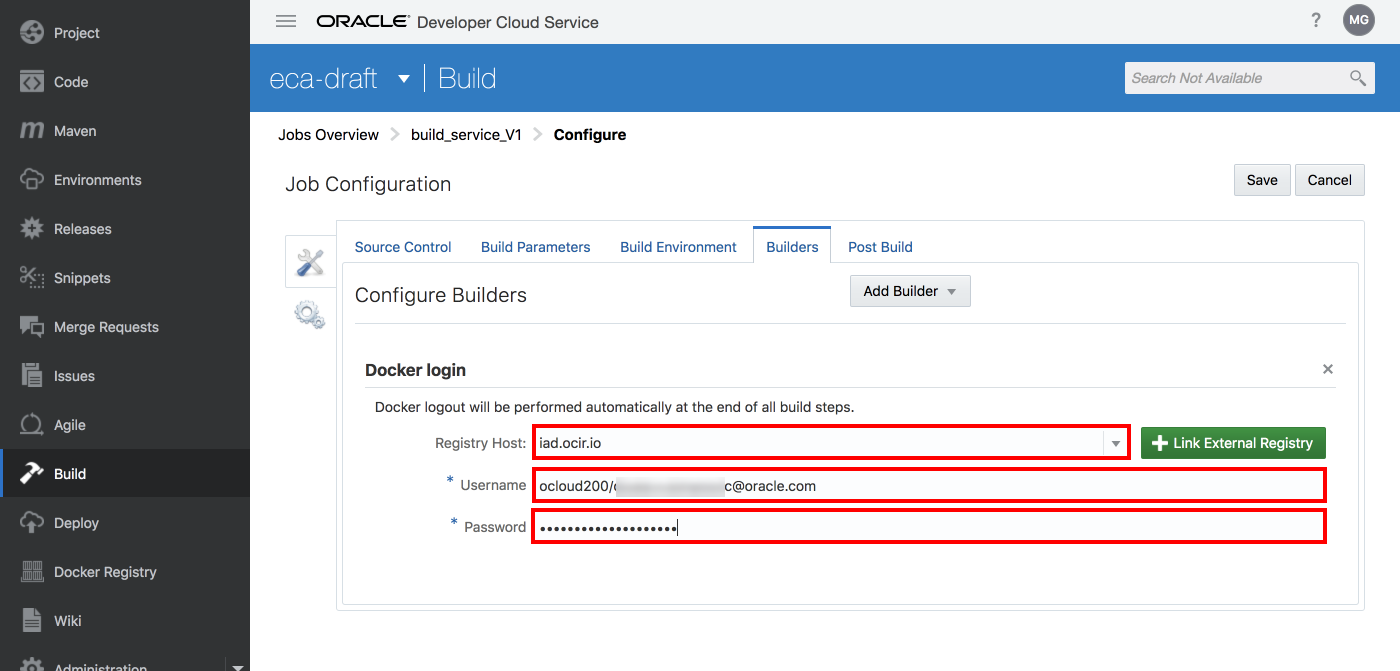
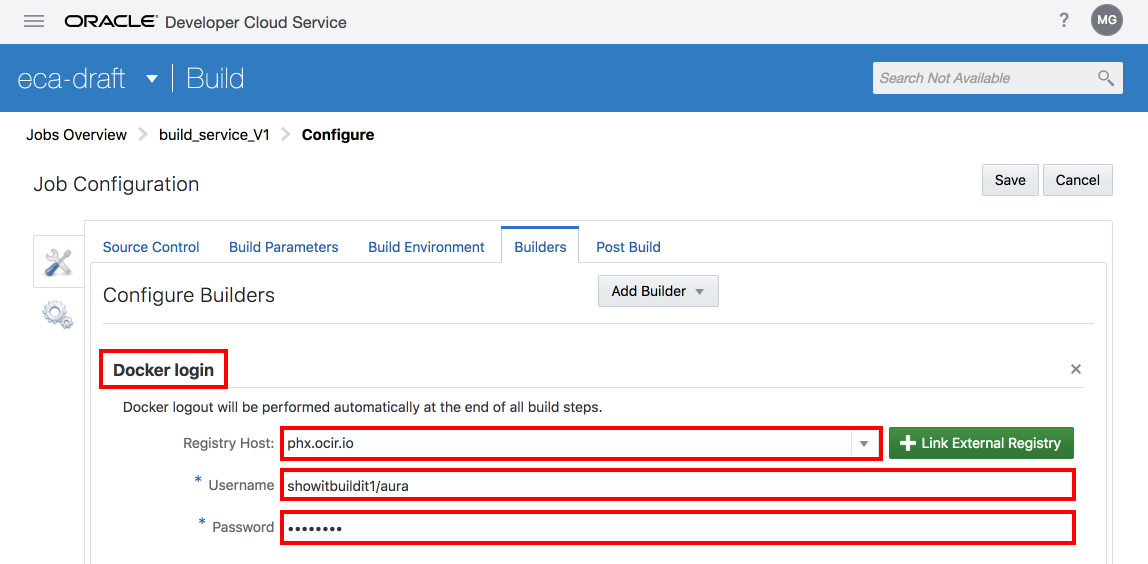
rest of the screenshots

diff --git a/tutorials/devcs.build.jobs.md b/tutorials/devcs.build.jobs.md
@@ -78,8 +78,8 @@ Click again the Add Builder and select Docker build.
 ![](images/build.jobs/06.build.v1.docker.build.png)
 
 Fill out the following:
--	Registry Host: <region-code\>.ocir.io
--	Image name: <oci-tenant\>/<repository-name\> (what you created above)
+-	Registry Host: phx.ocir.io
+-	Image name: showitbuildit1/<repository-name\> (what you created above using the format eca-<compartment-name\>)
 -	Version Tag: 1.0
 - Context Root in Workspace: yes
 - Dockerfile: Dockerfile_V1
@@ -91,8 +91,8 @@ Click again the Add Builder and select Docker push.
 ![](images/build.jobs/08.build.v1.docker.push.png)
 
 Fill out the following:
--	Registry Host: <region-code\>.ocir.io
--	Image name: <oci-tenant\>/<repository-name\> (what you created above)
+-	Registry Host: phx.ocir.io
+-	Image name: showitbuildit1/<repository-name\> (what you created above using the format eca-<compartment-name\>)
 -	Version Tag: 1.0
 
 ![](images/build.jobs/09.build.v1.docker.push.details.png)
@@ -105,7 +105,9 @@ Click on Build now.
 
 ![](images/build.jobs/11.build.v1.start.png)
 
-You don't need to wait for the result if there is no available Executor. You can continue with the following step and get back to verify when the job is completed.
+You don't need to wait for the result if there is no available Executor. You can continue with the following step and get back to verify in Registry when the job is completed.
+
+![](images/build.jobs/11.build.v1.verify.png)
 
 ### 3. Deploy service V1 to Microservices platform and test
 
@@ -210,9 +212,21 @@ Add another Unix Shell Builder which will execute the service V1 deployment. Cop
 
     kubectl apply -f kubernetes/ecadraft-virtual-service-v1.yaml
 
+Yous should have similar builders configuration for deploy_service_V1 job:
+
+![](images/build.jobs/20.deploy.v1.builders.details.png)
+
 Click Save and execute the deploy_service_V1 build job.
 
-The step above will also print the GATEWAY_URL (API endpoint) for you. Once the job completed check the log. Click on the log icon and find the GATEWAY_URL value. It has to be a public IP address and port. When you have that execute the following `curl` command to test the application:
+The step above will also print the GATEWAY_URL (API endpoint) for you. Once the job completed check the log. Click on the log icon to get the build log.
+
+![](images/build.jobs/21.deploy.v1.view.logs.png)
+
+In the log find the GATEWAY_URL variable's value:
+
+![](images/build.jobs/22.deploy.v1.gatewayurl.png)
+
+It has to be a public IP address and port. When you have this execute the following `curl` command to test the application:
 
     $ curl -HHost:ecadraft.example.com http://<GATEWAY_URL>/tickets
     {"_items":[{"customer":"Krajcik Inc","status":"Resolved","product":"Licensed Wooden Salad","_id":"25ccbcc4-a989-4334-a341-fcc18e4efced"...
@@ -220,6 +234,8 @@ The step above will also print the GATEWAY_URL (API endpoint) for you. Once the 
 ### 4. Create build job to package service V2 in container and push to container registry
 
 Create new build job.
+
+![](images/build.jobs/01.build.jobs.png)
 
 Fill out the following:
 -	Job Name: build_service_V2
@@ -229,20 +245,27 @@ Fill out the following:
 
 Click Create.
 
+![](images/build.jobs/29.build.v2.create.png)
+
 Click on the new build_service_V2 job to configure. Switch to the Builders tab and modify the followings:
 
 - Version Tag (every location): 1.0 -> 2.0
 - Dockerfile: Dockerfile_V1 -> Dockerfile_V2
 
+
+![](images/build.jobs/30.build.v2.builders.changes.png)
+
 Click Save than Build Now.
 
-![](images/build.jobs/30.deploy.v2.builders.changes.png)
-
 When the job finished verify the V2 image in your repository.
+
+![](images/build.jobs/31.build.v2.verify.png)
 
 ### 5. Deploy service V2 to Microservices platform
 
 Create new build job.
+
+![](images/build.jobs/01.build.jobs.png)
 
 Fill out the following:
 -	Job Name: deploy_service_V2
@@ -252,24 +275,32 @@ Fill out the following:
 
 Click Create.
 
-Click on the new deploy_service_V2 job to configure. Switch to the Builders tab and modify the followings in the last Unix Shell Builder Step:
+![](images/build.jobs/32.deploy.v2.create.png)
+
+Switch to the Builders tab and modify the followings in the last Unix Shell Builder Step:
 
 - ecadraft1.yaml -> ecadraft2.yaml
 - ecadraft1.final.yaml -> ecadraft2.final.yaml
-- Delete: kubectl apply -f kubernetes/ecadraft-virtual-service-v1.yaml
+- **Delete (!)**: kubectl apply -f kubernetes/ecadraft-virtual-service-v1.yaml
+
+![](images/build.jobs/33.deploy.v2.builders.changes.png)
 
 Click Save than Build Now.
 
 ### 6. Check that service is still being served fully by V1
 
-Using the curl command above check multiple times that 100% traffic showing V1:
+Using the 'curl' command  and GATEWAY_URL value from above check multiple times that 100% traffic showing V1:
 
     $ curl -HHost:ecadraft.example.com http://<GATEWAY_URL>/tickets
     {"_items":[{"customer":"Krajcik Inc","status":"Resolved","product":"Licensed Wooden Salad","_id":"25ccbcc4-a989-4334-a341-fcc18e4efced"...
 
+V1 service produces customer name with capital letter but in lowercase. While V2 will produce customer name in uppercase (all letter).
+
 ### 7. Change the Istio rule to define canary deployment and define traffic percentages as 50/50 and check that half of the requests are being served by V1 and half by V2
 
 Create new build job.
+
+![](images/build.jobs/01.build.jobs.png)
 
 Fill out the following:
 -	Job Name: canary-deploy-50-50
@@ -278,11 +309,15 @@ Fill out the following:
 
 Click Create.
 
-Click on the new canary-deploy-50-50 job to configure. Switch to the Builders tab and modify the the last Unix Shell Builder Step to contain this single command:
+![](images/build.jobs/34.build.50_50.create.png)
+
+Switch to the Builders tab and modify the the last Unix Shell Builder Step to contain this single command:
 
     kubectl apply -f kubernetes/ecadraft-virtual-service-50-50.yaml
 
 Click Save than Build Now.
+
+![](images/build.jobs/35.build.50_50.changes.png)
 
 Once the deployment completed check 50% - 50% V1 & V2 content using the curl command:
 
@@ -293,11 +328,13 @@ Once the deployment completed check 50% - 50% V1 & V2 content using the curl com
     $ curl -HHost:ecadraft.example.com http://<GATEWAY_URL>/tickets
     {"_items":[{"customer":"MONAHAN LLC","status":"Resolved","product":"Licensed Wooden Salad","_id":"25ccbcc4-a989-4334-a341-fcc18e4efced"...
 
-Please note the V2 provides customer name in uppercase.
+Please note the V2 provides customer name only in uppercase. Hit few times and you can see the balance between the versions.
 
 ### 8. Change the Istio rule to define canary deployment and define traffic percentages as 0/100 and check that all requests are being served by V2
 
 Create new build job.
+
+![](images/build.jobs/01.build.jobs.png)
 
 Fill out the following:
 -	Job Name: canary-deploy-v2-100
@@ -306,11 +343,15 @@ Fill out the following:
 
 Click Create.
 
-Click on the new canary-deploy-v2-100 job to configure. Switch to the Builders tab and modify the the last Unix Shell Builder Step to contain this single command:
+![](images/build.jobs/36.build.v2.only.create.png)
+
+Switch to the Builders tab and modify the the last Unix Shell Builder Step to contain this single command:
 
     kubectl apply -f kubernetes/ecadraft-virtual-service-v2.yaml
 
 Click Save than Build Now.
+
+![](images/build.jobs/37.build.v2.only.builders.changes.png)
 
 Once the deployment completed check that all request served by V2 (uppercase customer name) using the curl command:
 
@@ -321,4 +362,4 @@ Once the deployment completed check that all request served by V2 (uppercase cus
     $ curl http://$GATEWAY_URL/tickets
     {"_items":[{"customer":"MONAHAN LLC","status":"Resolved","product":"Licensed Wooden Salad","_id":"25ccbcc4-a989-4334-a341-fcc18e4efced"...
 
-Please note every requests get the customer name in uppercase.
+Please note every response contains the customer name in uppercase.

diff --git a/README.md b/README.md
@@ -2,7 +2,7 @@
 
 Prerequisites:
 
-- Oracle Cloud Account (DevCS, OCIR, OKE)
+- Oracle Cloud Account
   - DevCS
   - OCIR
   - OKE - Microservices platform installed
